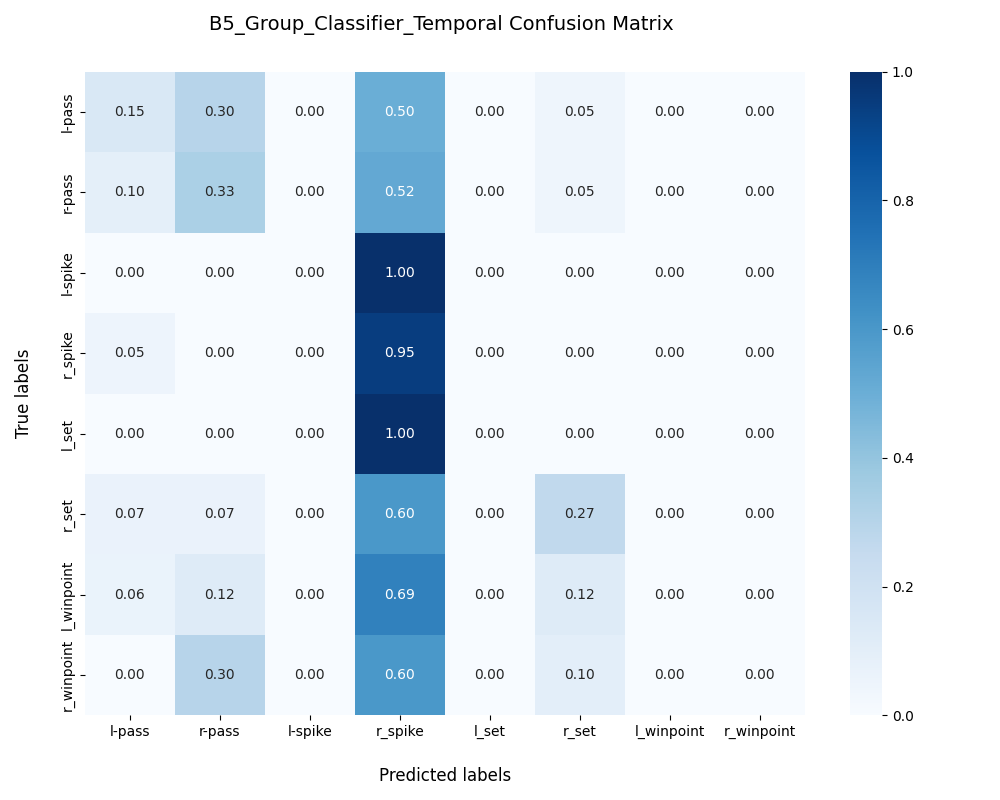
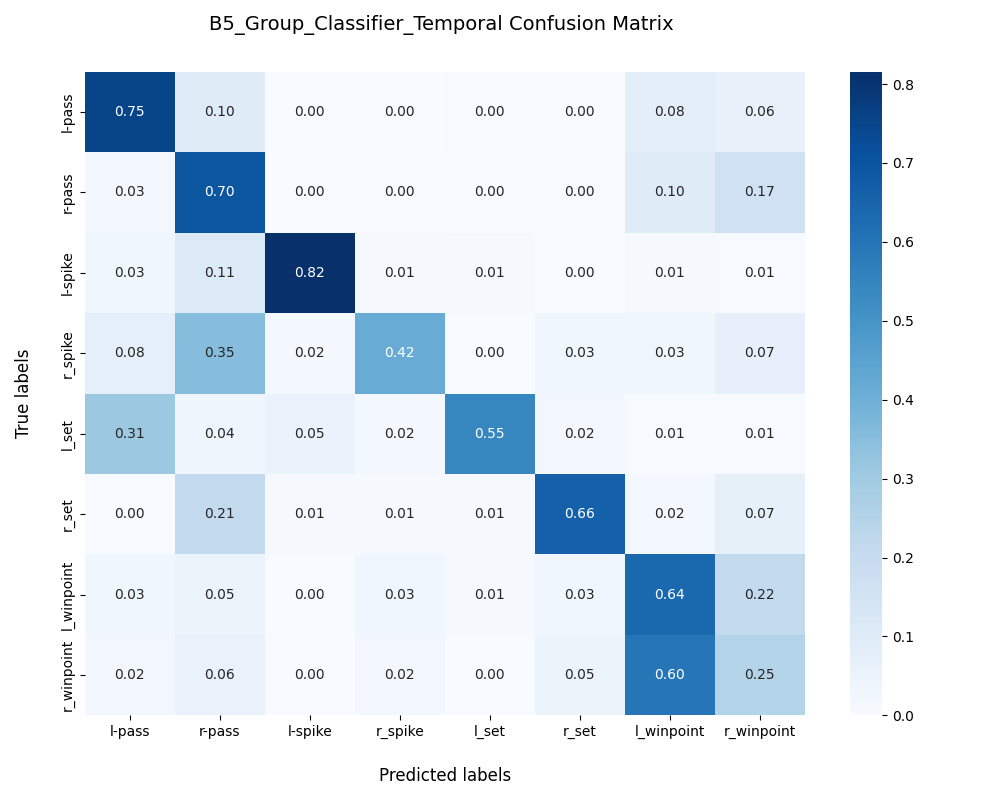
Results from Kaggle run for baseline 5 Group classifier v4

diff --git a/train/b5_group_classifier_temporal_train.py b/train/b5_group_classifier_temporal_train.py
@@ -42,13 +42,13 @@ num_group_actions = conf_dict['model']['num_group_actions']
 num_player_actions = conf_dict['model']['num_player_actions']
 
 # DataLoaders
-train_dataset=VolleyballPersonDataset(videos_root,annot_root,train_ids,one_frame=True,player_label=False,train=True)
+train_dataset=VolleyballPersonDataset(videos_root,annot_root,train_ids,one_frame=False,player_label=False,train=True)
 train_loader=DataLoader(train_dataset,batch_size=batch_size,shuffle=True,num_workers=num_workers,pin_memory=pin_memory)
 
-val_dataset=VolleyballPersonDataset(videos_root,annot_root,val_ids,one_frame=True,player_label=False,train=False)
+val_dataset=VolleyballPersonDataset(videos_root,annot_root,val_ids,one_frame=False,player_label=False,train=False)
 val_loader=DataLoader(val_dataset,batch_size=batch_size,shuffle=False,num_workers=num_workers,pin_memory=pin_memory)
 
-test_dataset=VolleyballPersonDataset(videos_root,annot_root,test_ids,one_frame=True,player_label=False,train=False)
+test_dataset=VolleyballPersonDataset(videos_root,annot_root,test_ids,one_frame=False,player_label=False,train=False)
 test_loader=DataLoader(test_dataset,batch_size=batch_size,shuffle=False,num_workers=num_workers,pin_memory=pin_memory)
 
 # Setup
@@ -57,7 +57,7 @@ device = torch.device("cuda" if torch.cuda.is_available() else "cpu")
 backbone_inner=B3_Player_Classifier(num_player_actions)
 
 backbone_outer=B5_Player_Classifier_Temporal(backbone_inner,num_player_actions)
-backbone_outer.load_state_dict(torch.load('checkpoints/b3_player_classifier_temporal_best_model_checkpoint.pth',map_location=device,weights_only=True)['model_state_dict'])
+backbone_outer.load_state_dict(torch.load('/kaggle/input/datasets/myahiia/b5-player-classifier-temporal-dataset/Group-Activity-Recognition/checkpoints/b3_player_classifier_temporal_best_model_checkpoint.pth',map_location=device,weights_only=True)['model_state_dict'])
 
 model=B5_Group_Classifier_Temporal(backbone_outer,num_group_actions)
 model=model.to(device)
